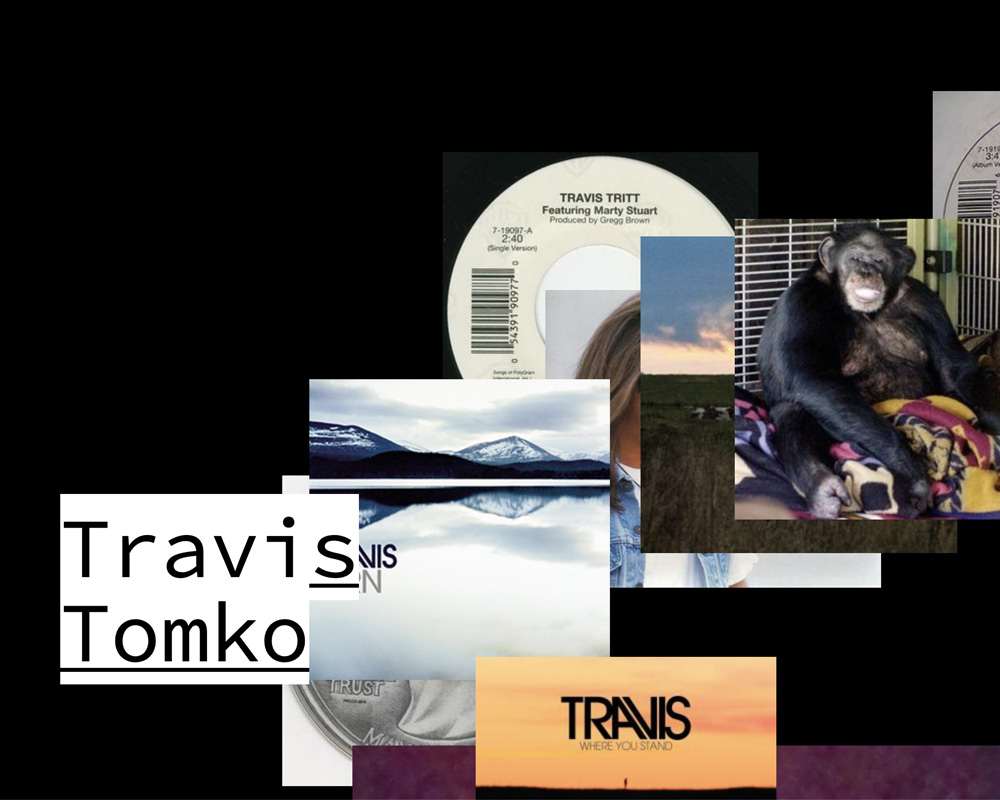
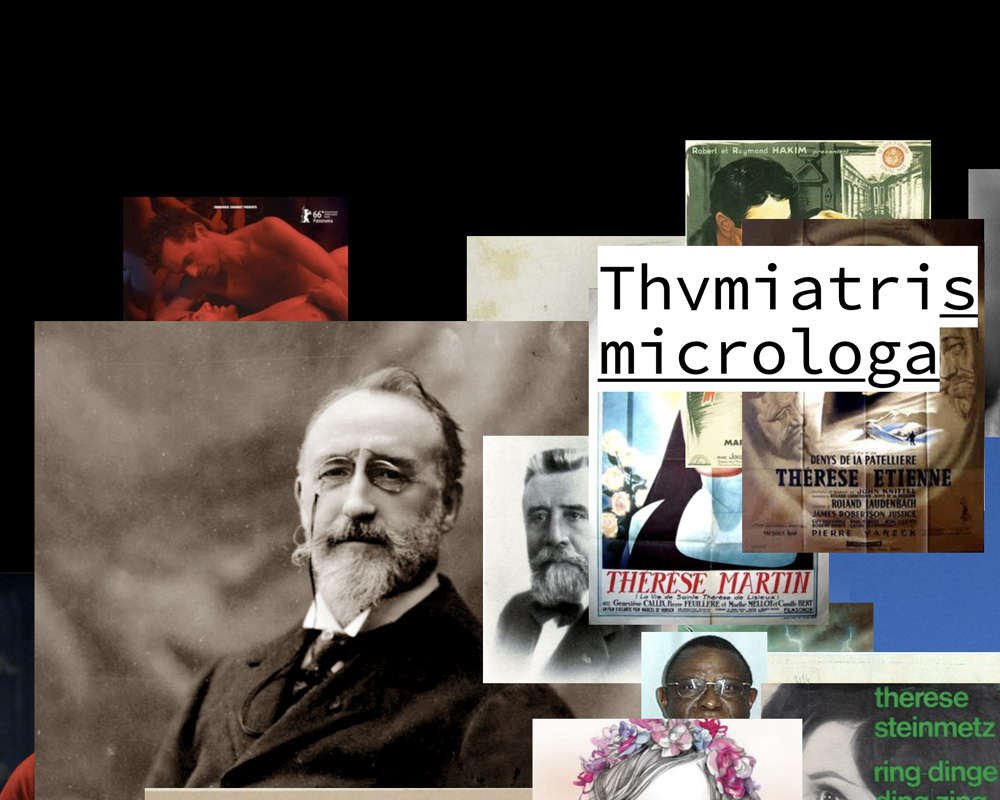
Added routing behavior for page transitions.

diff --git a/src/content/Randomness/RandomImage.vue b/src/content/Randomness/RandomImage.vue
@@ -40,8 +40,8 @@ export default {
         blocks.value.push({
           top:
             random(
-              window.scrollY + 150,
-              window.innerHeight + window.scrollY - 150
+              150,
+              window.innerHeight - 150
             ) + "px",
           left: random(0, window.innerWidth / 2) + "px",
           width: random(200, window.innerWidth / 2) + "px",

diff --git a/src/router/index.js b/src/router/index.js
@@ -62,7 +62,10 @@ async function newRouter() {
       let routes = routeData.combined;
       let router = createRouter({
         history: createWebHistory(process.env.BASE_URL),
-        routes
+        routes,
+        scrollBehavior(to, from, savedPosition) {
+          return { x: 0, y: 0 }
+        }
       });
 
       resolve(router);
